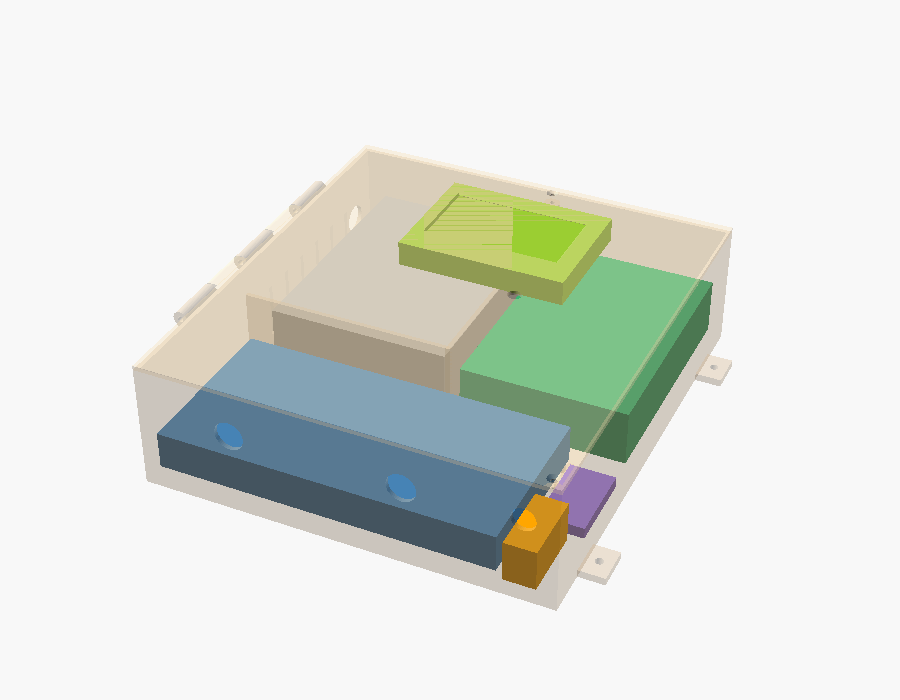
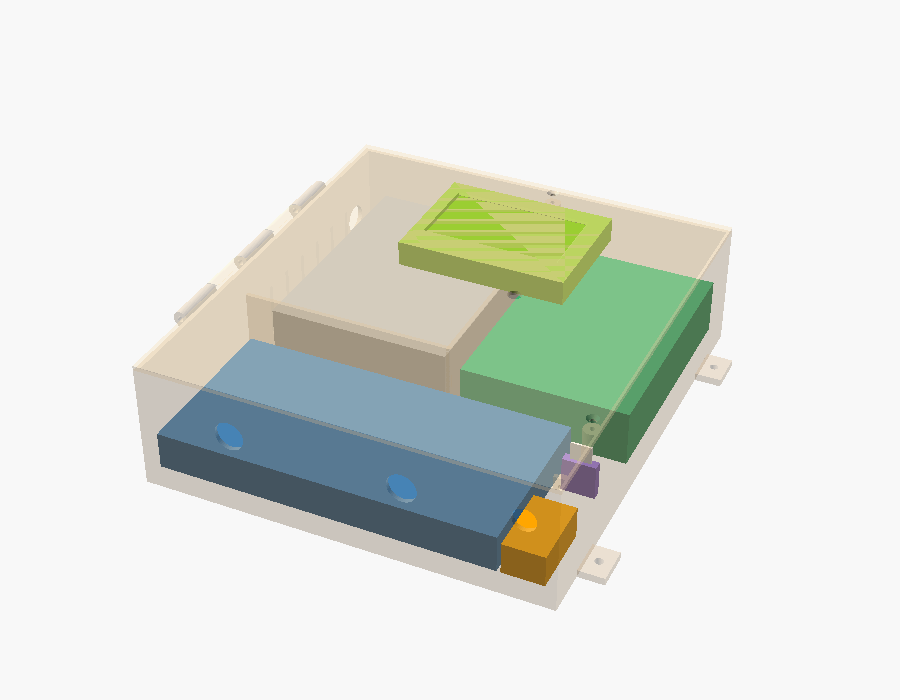
docs: imagens e documentação do microSD em pé e do RTC
Claude-Session: https://claude.ai/code/session_01LaK3UAtjrPCuA6B4eXAfcY

Changed region(s): [[0.56, 0.6, 0.6844, 0.84], [0.4667, 0.27, 0.6533, 0.39]]

diff --git a/CHANGELOG.md b/CHANGELOG.md
@@ -17,6 +17,7 @@ Formato: uma seção por versão, da mais nova para a mais antiga.
 - 31 testes de interação da página no Chrome sem janela (`tests/pagina/`).
 - Logo do SABIÁ em `assets/logo/` (horizontal, com galho, só o pássaro e ícone), aplicada no README, como favicon e no topo da página web, e em 1 bit para a tela de boot do display (`firmware/include/logo_boot.h`).
 - Caixa do controlador em OpenSCAD (`hardware/caixa-3d/caixa.scad`): base com divisórias, suportes, berços, prensa-cabos e abas de parede; tampa com dobradiça, tela atrás de visor de acrílico e encoder. STL gerados no GitHub Actions. Documentação em `docs/caixa.md`.
+- Caixa: microSD em pé numa paredinha com 2 parafusos (cartão para a tampa, pinos para o ESP) e RTC deitado sobre 3 suportes, no lugar dos berços.
 - Nome do projeto: SABIÁ (Sistema Automático de Balanço e Irrigação Agrícola).
 - Documentação dividida em README e `docs/` (requisitos, arquitetura, hardware e mapa de pinos).
 - Requisitos de segurança RF14 (saídas desligadas no boot), RF15 (watchdog) e RF16 (senha e autenticação na página web).

diff --git a/docs/caixa.md b/docs/caixa.md
@@ -54,6 +54,8 @@ Os itens marcados **MEDIR** no `caixa.scad` são estimativas. Com um paquímetro
 
 O **RTC** fica deitado sobre 3 suportes, com a pilha virada para a frente, para dar para trocar. O **microSD** (18,5 × 17,5 mm, furos a 14 mm) fica em pé, parafusado numa paredinha: o cartão aponta para a tampa e sai puxando para fora, e os pinos apontam para o ESP.
 
+![microSD em pé e RTC, vistos do lado do ESP](../hardware/caixa-3d/render-sd-rtc.png)
+
 Depois de trocar as medidas, rode `python3 tools/leiaute_caixa.py` para atualizar o desenho do leiaute. Esse script repete os parâmetros do `.scad`, então mude nos dois.
 
 ## Material de montagem
